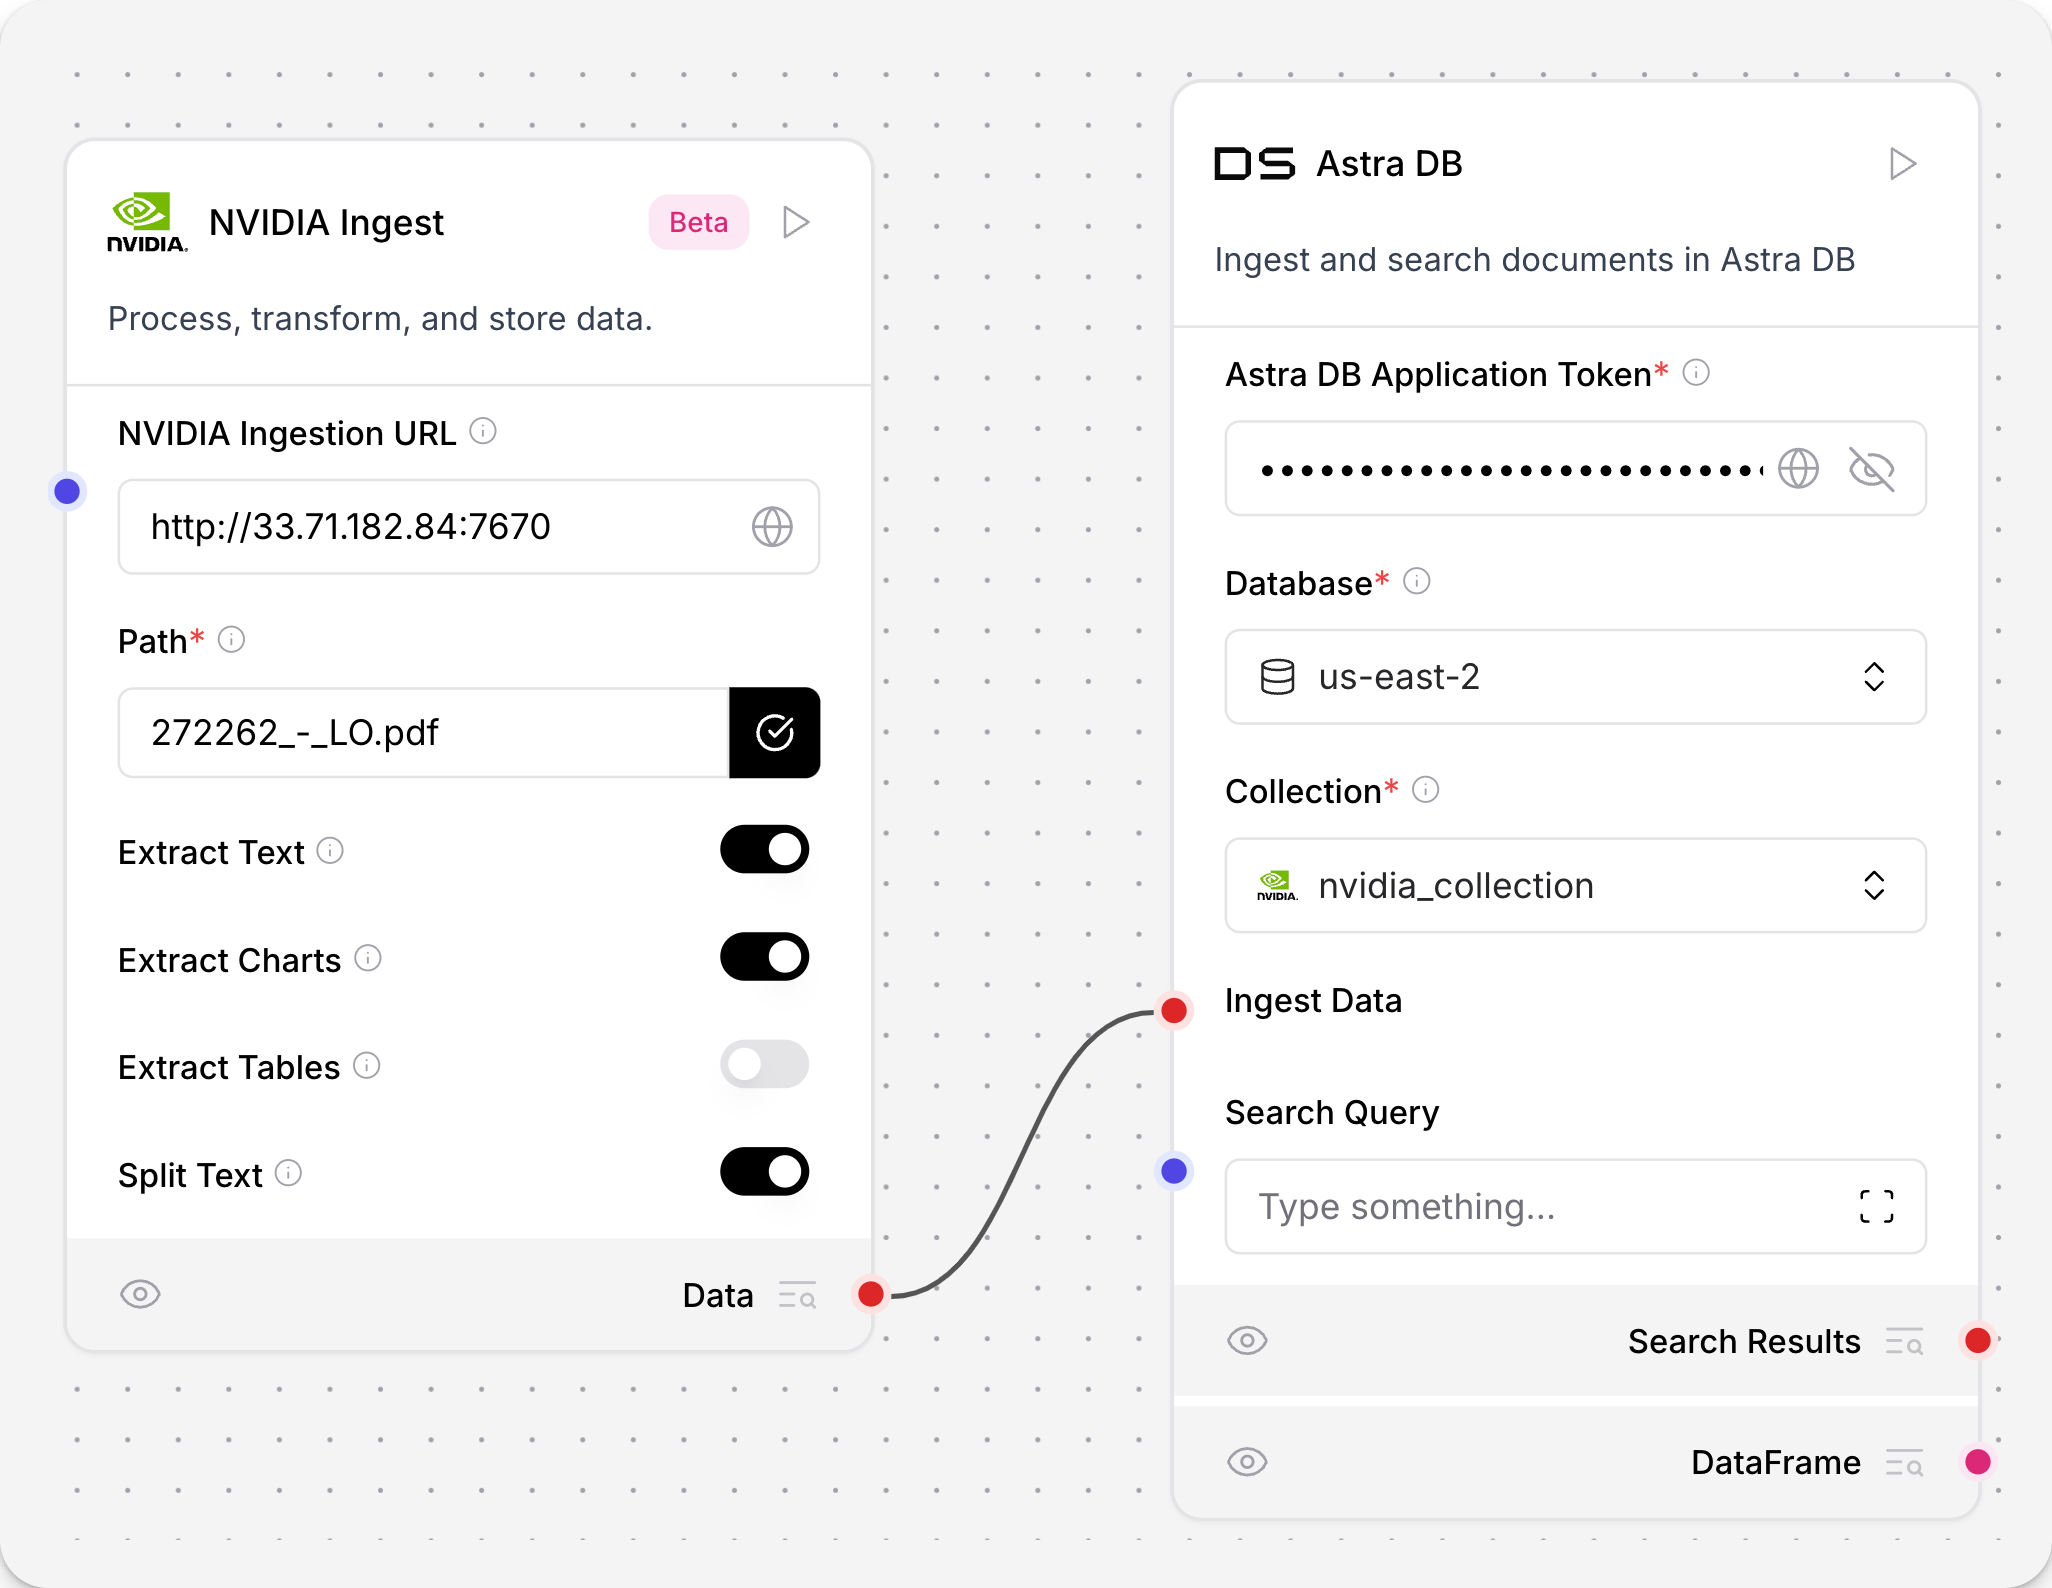
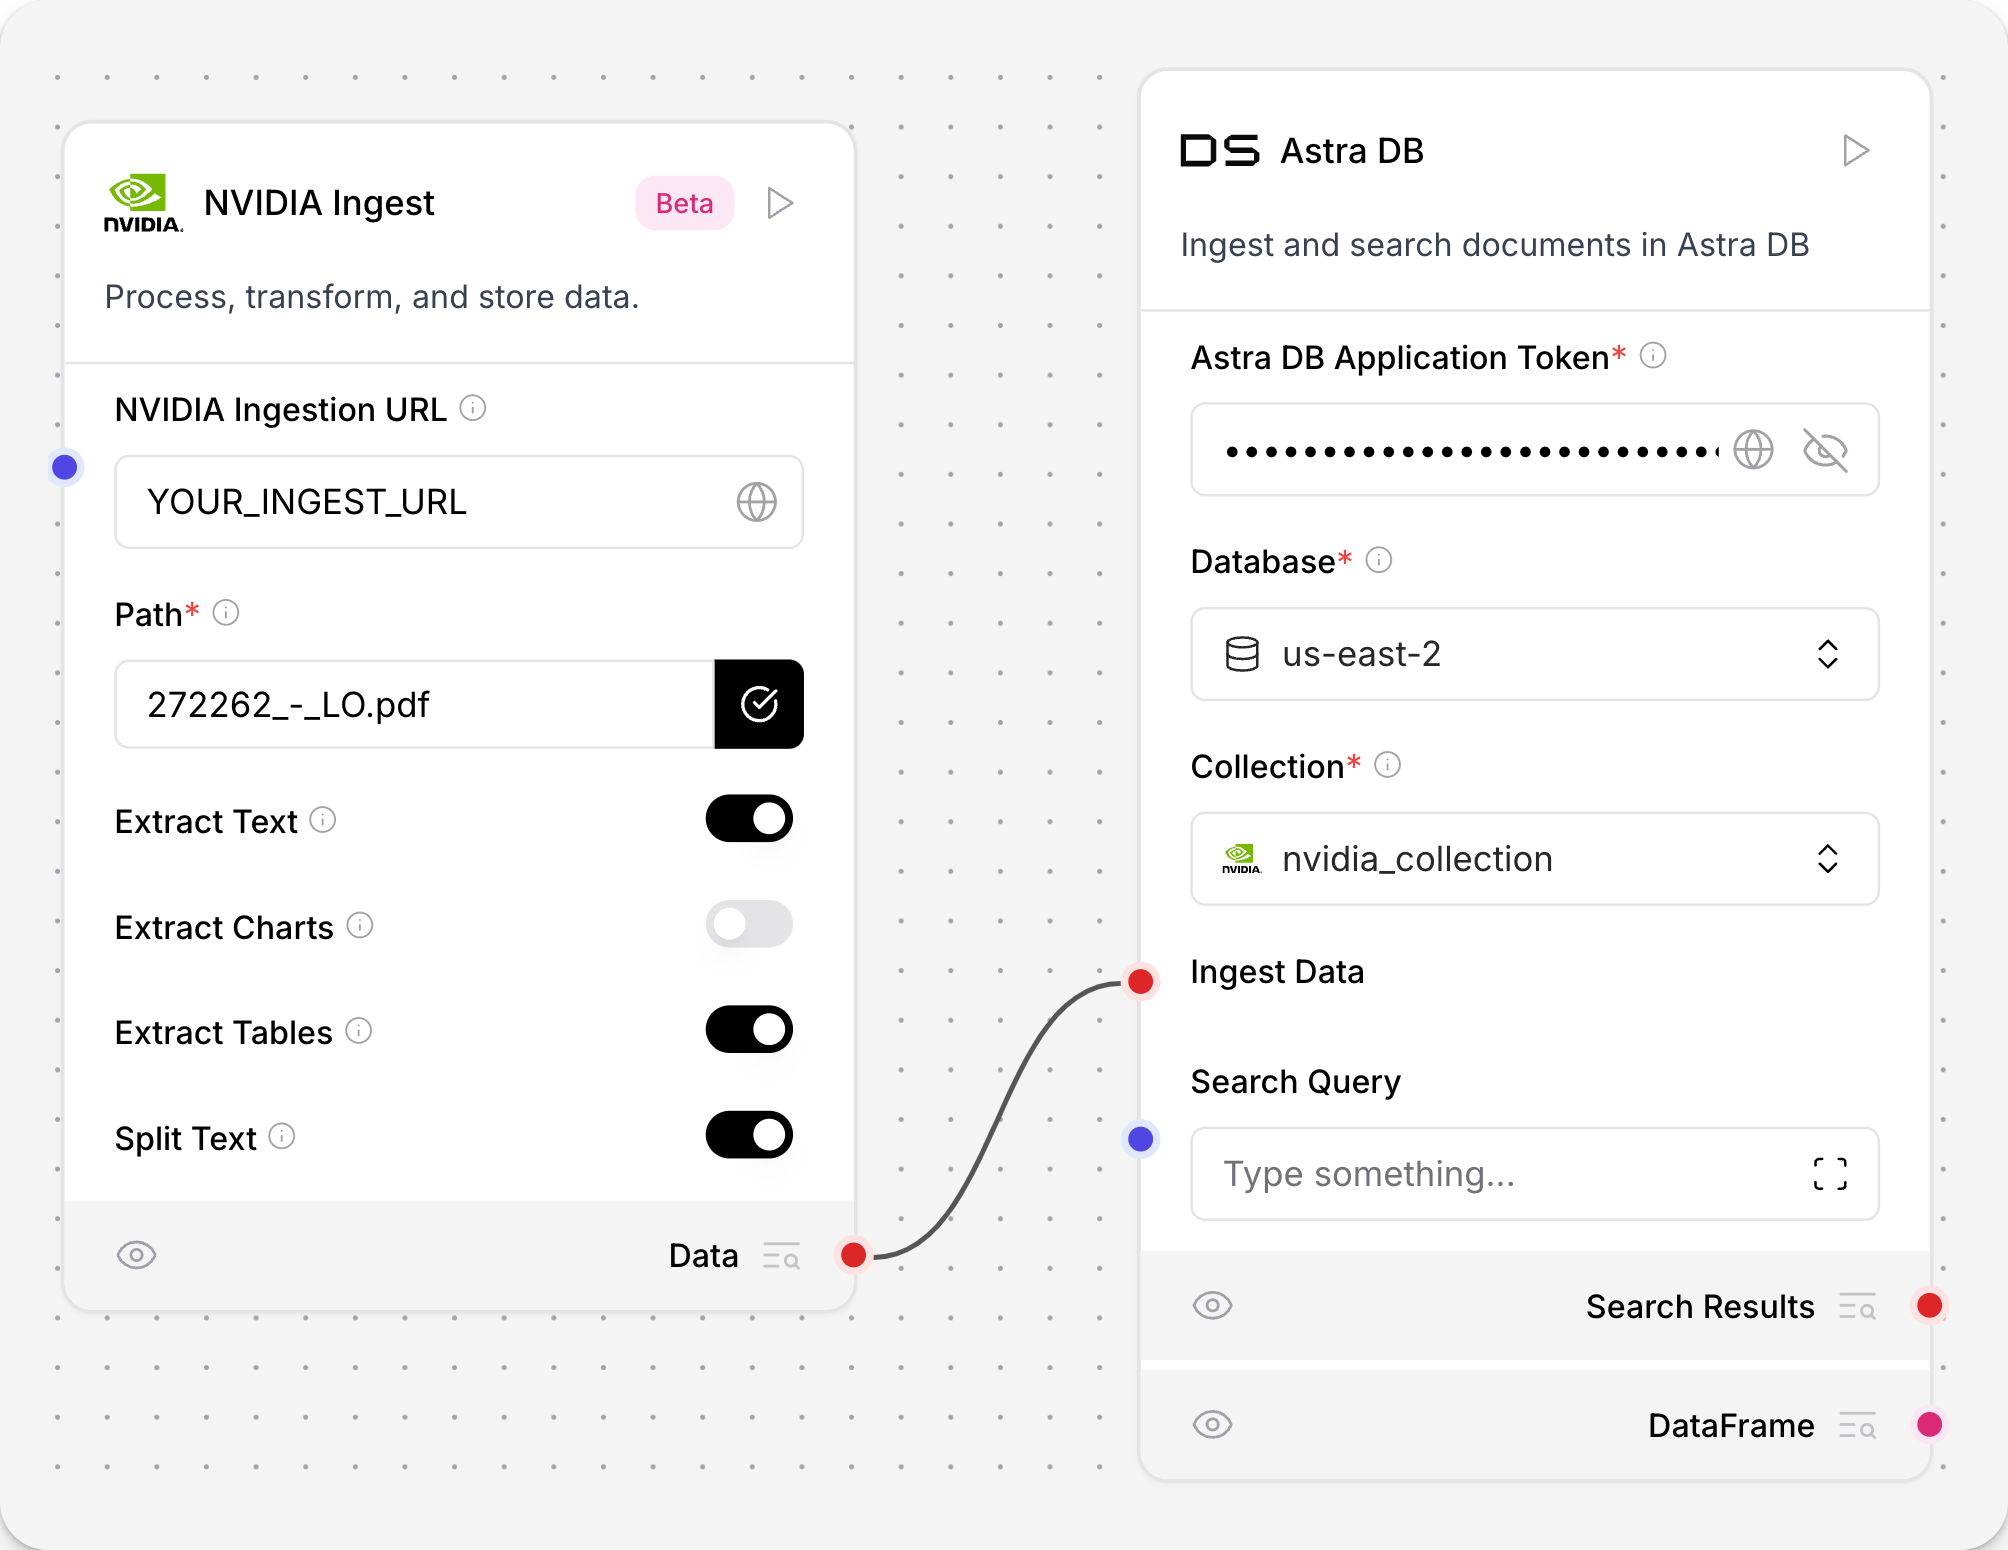
update-screenshot-shrink-table

diff --git a/docs/docs/Integrations/Nvidia/integrations-nvidia-ingest.md b/docs/docs/Integrations/Nvidia/integrations-nvidia-ingest.md
@@ -11,7 +11,7 @@ The **NVIDIA Ingest** component imports the NVIDIA `Ingestor` client, ingests fi
 
 ## Prerequisites
 
-* An NVIDIA Ingest endpoint, like `http://33.71.182.84:7670`. For more information on setting up an NVIDIA ingest endpoint, see the [NVIDIA Ingest quickstart](https://github.com/NVIDIA/nv-ingest?tab=readme-ov-file#quickstart).
+* An NVIDIA Ingest endpoint. For more information on setting up an NVIDIA ingest endpoint, see the [NVIDIA Ingest quickstart](https://github.com/NVIDIA/nv-ingest?tab=readme-ov-file#quickstart).
 
 * The **NVIDIA Ingest** component requires the installation of additional dependencies to your Langflow environment. To install the dependencies in a virtual environment, run the following commands:
 ```bash
@@ -49,24 +49,24 @@ For more information, see the [NV-Ingest documentation](https://nvidia.github.io
 
 ### Inputs
 
-| Name | Display Name | Info | Required/Default |
-|------|--------------|------|------------------|
-| base_url | NVIDIA Ingestion URL | The URL of the NVIDIA Ingestion API | Required |
-| path | Path | File path to process | Required |
-| extract_text | Extract Text | Extract text from documents | Default: True |
-| extract_charts | Extract Charts | Extract text from charts | Default: False |
-| extract_tables | Extract Tables | Extract text from tables | Default: True |
-| text_depth | Text Depth | Level at which text is extracted (applies before splitting). Support for 'block', 'line', 'span' varies by document type | Default: "document" |
-| split_text | Split Text | Split text into smaller chunks | Default: True |
-| split_by | Split By | How to split into chunks ('size' splits by number of characters) | Default: "word" |
-| split_length | Split Length | The size of each chunk based on the 'split_by' method | Default: 200 |
-| split_overlap | Split Overlap | Number of segments to overlap from previous chunk | Default: 20 |
-| max_character_length | Max Character Length | Maximum number of characters in each chunk | Default: 1000 |
-| sentence_window_size | Sentence Window Size | Number of sentences to include from previous and following chunk (when split_by='sentence') | Default: 0 |
+| Name | Display Name | Info |
+|------|--------------|------|
+| base_url | NVIDIA Ingestion URL | The URL of the NVIDIA Ingestion API. |
+| path | Path | File path to process. |
+| extract_text | Extract Text | Extract text from documents. Default: `True`. |
+| extract_charts | Extract Charts | Extract text from charts. Default: `False`. |
+| extract_tables | Extract Tables | Extract text from tables. Default: `True`. |
+| text_depth | Text Depth | Level at which text is extracted (applies before splitting). Support for 'block', 'line', 'span' varies by document type. Default: `document`. |
+| split_text | Split Text | Split text into smaller chunks. Default: `True`. |
+| split_by | Split By | How to split into chunks ('size' splits by number of characters). Default: `word`. |
+| split_length | Split Length | The size of each chunk based on the 'split_by' method. Default: `200`. |
+| split_overlap | Split Overlap | Number of segments to overlap from previous chunk. Default: `20`. |
+| max_character_length | Max Character Length | Maximum number of characters in each chunk. Default: `1000`. |
+| sentence_window_size | Sentence Window Size | Number of sentences to include from previous and following chunks (when `split_by=sentence`). Default: `0`. |
 
 ### Outputs
 
 | Name | Type | Description |
 |------|------|-------------|
-| data | Data | List of Data objects containing processed content. Each Data object includes: text content, file path, document type, and description |
+| data | Data | List of [Data](/concepts-objects#data-object) objects containing processed content. Each Data object includes text content, file path, document type, and description. |
 
